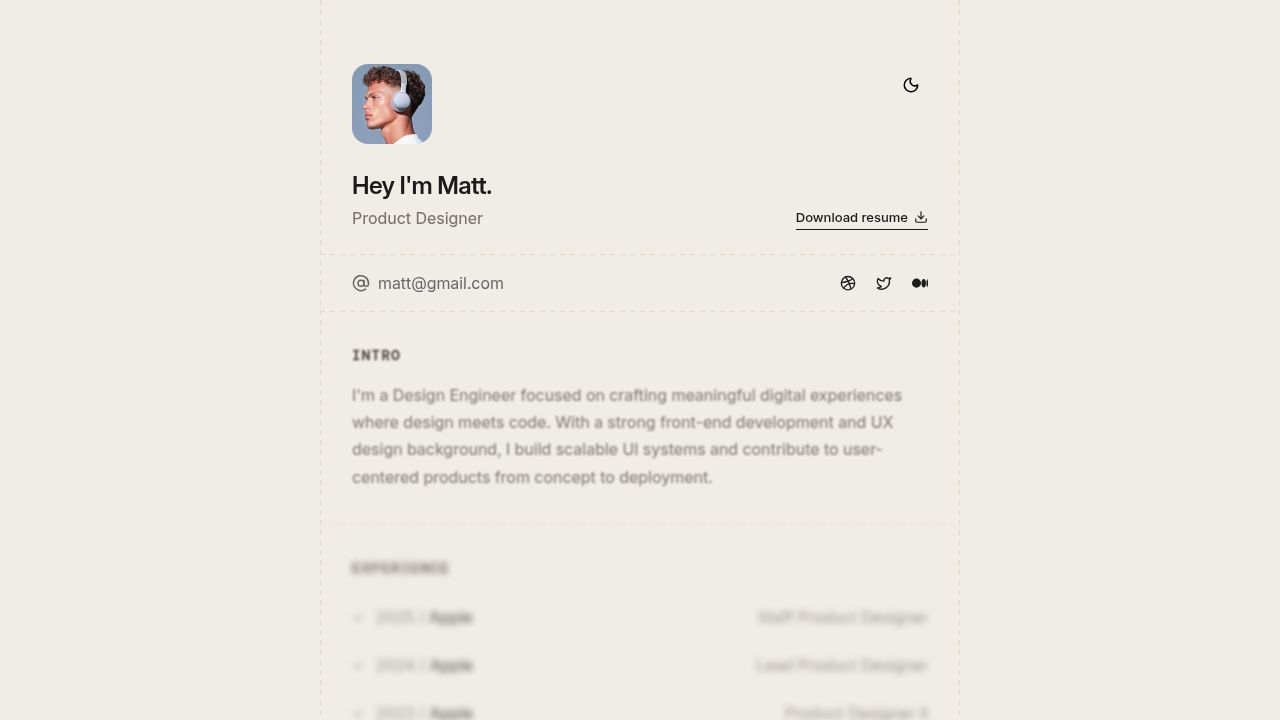
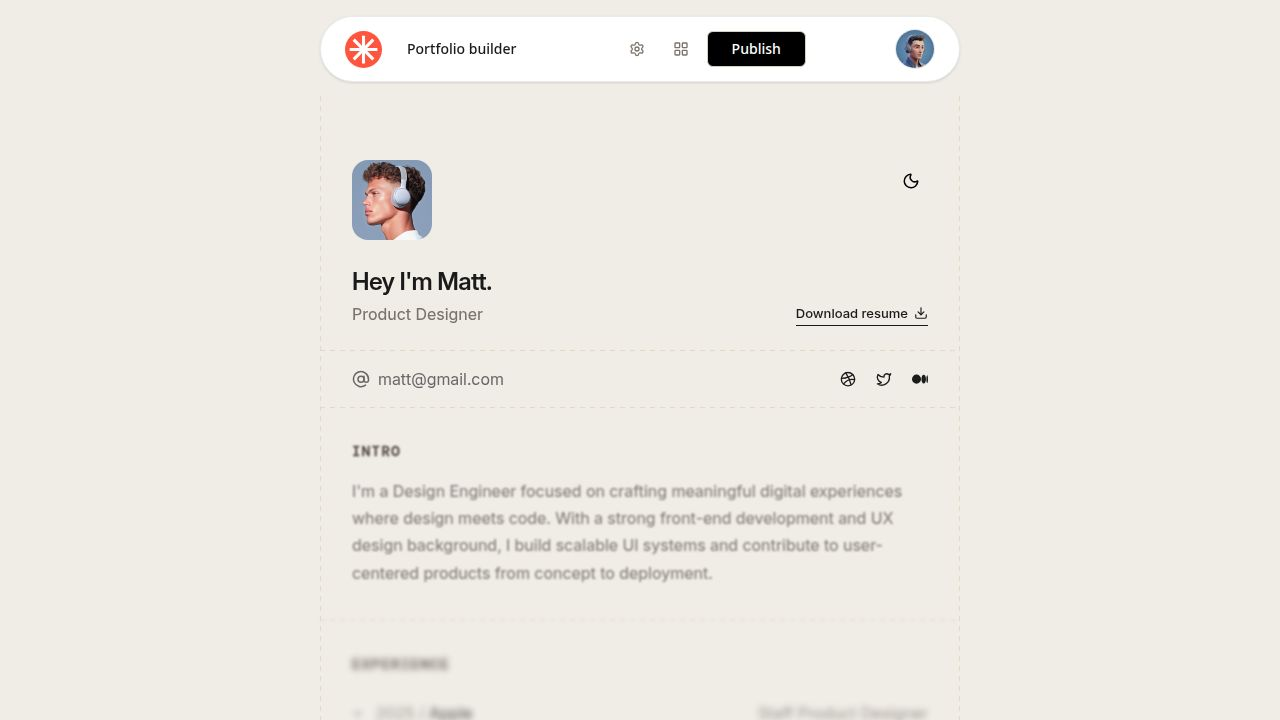
Update navbar to be fully rounded with reduced padding
Adjusted navbar component in client/src/components/navbar.tsx to include full border-radius, reduced internal padding, and a max-width matching the portfolio container.

Replit-Commit-Author: Agent
Replit-Commit-Session-Id: fe6a7565-a82f-4401-a5e7-e58e9d158582
Replit-Commit-Checkpoint-Type: full_checkpoint
Replit-Commit-Event-Id: e1967654-3771-4597-b0fb-7aadded3fd7c
Replit-Commit-Screenshot-Url: https://storage.googleapis.com/screenshot-production-us-central1/a7b74eaa-1807-4d46-a4da-7376c283a974/fe6a7565-a82f-4401-a5e7-e58e9d158582/K5zWBaj
Replit-Helium-Checkpoint-Created: true

diff --git a/client/src/components/navbar.tsx b/client/src/components/navbar.tsx
@@ -6,8 +6,8 @@ import profileImg from "@/assets/images/profile.png";
 export default function Navbar() {
   return (
     <div className="fixed top-0 left-0 right-0 z-50 flex justify-center pointer-events-none pt-4 px-4">
-      <nav className="bg-white dark:bg-[#2A2520] border border-black/8 dark:border-white/10 rounded-2xl shadow-sm pointer-events-auto">
-        <div className="px-6 md:px-8 py-4 flex items-center justify-between gap-8">
+      <nav className="bg-white dark:bg-[#2A2520] border border-black/8 dark:border-white/10 rounded-full shadow-sm pointer-events-auto max-w-[640px] w-full">
+        <div className="px-5 md:px-6 py-3 flex items-center justify-between gap-8">
           {/* Logo */}
           <div className="flex items-center gap-3">
             <svg width="37" height="37" viewBox="0 0 37 37" fill="none" xmlns="http://www.w3.org/2000/svg">
